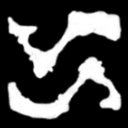
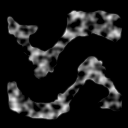
Grass changes, fix minor problem on server when not precaching meshes, add scaling to grass parameters, change hud textures to be less ghetto looking

Changed region(s): [[0.0625, 0.0625, 0.9688, 0.625], [0.0625, 0.4375, 0.9688, 0.9375]]

diff --git a/getmap.cpp b/getmap.cpp
@@ -631,7 +631,7 @@ void GetMap(string fn)
    {
       string file, model;
       int grassw, grassh, groupsize = 10;
-      float density;
+      float density, gscale = 1.f;
       currnode = grassnode(i);
       float maxtilt = 50.f, mintilt = 25.f;
       
@@ -642,6 +642,7 @@ void GetMap(string fn)
       currnode.Read(density, "Density");
       currnode.Read(maxtilt, "MaxTilt");
       currnode.Read(mintilt, "MinTilt");
+      currnode.Read(gscale, "Scale");
       
       SDL_Surface *loadgrass;
    
@@ -696,7 +697,7 @@ void GetMap(string fn)
                      {
                         Mesh newmesh(basemesh);
                         Vector3 newpos(newx, GetTerrainHeight(newx, newy), newy);
-                        newmesh.Scale(sqrt(d / density));
+                        newmesh.Scale(sqrt(d / density) * gscale);
                         newmesh.Move(newpos);
                         newmesh.Rotate(rots);
                         newmesh.LoadMaterials();

diff --git a/server.cpp b/server.cpp
@@ -517,7 +517,7 @@ int ServerListen(void* dummy)
             }
             for (size_t i = 0; i < allspawns.size(); ++i)
             {
-               if (spawnpointreq.distance(allspawns[i].position) < 1.f)
+               if (spawnpointreq.distance(allspawns[i].position) < 1.f && allspawns[i].team == serverplayers[oppnum].team)
                {
                   accepted = true;
                   break;
@@ -567,6 +567,7 @@ int ServerListen(void* dummy)
                      serverplayers[oppnum].spawned = true;
                   }
                   serverplayers[oppnum].pos = spawnpointreq;
+                  UpdatePlayerModel(serverplayers[oppnum], servermeshes, false);
                   serverplayers[oppnum].lastmovetick = SDL_GetTicks();
                   serverplayers[oppnum].Reset();
                   for (int i = 0; i < numbodyparts; ++i)
